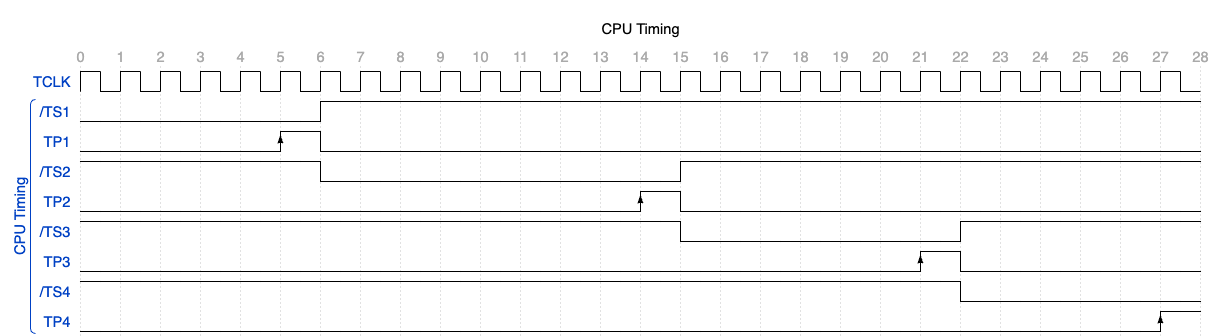
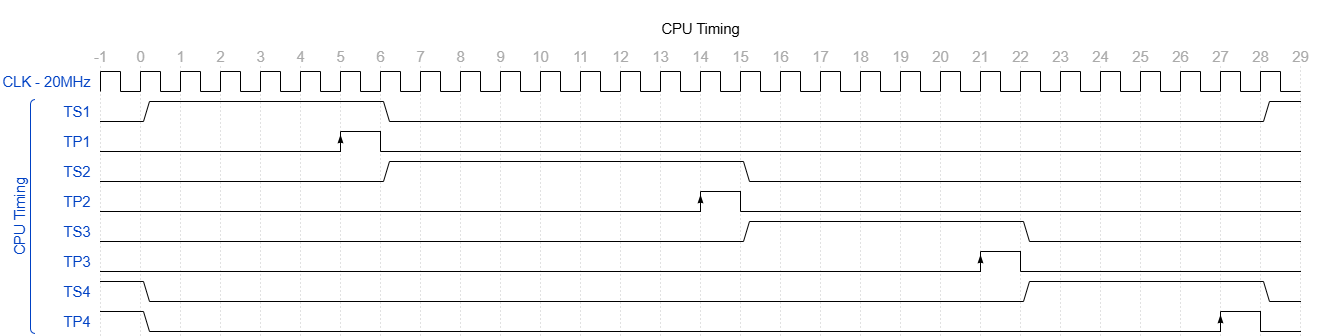
adding memory timing and updating cpu timing diagrams

diff --git a/docs/06-memory/02-memory-interface.md b/docs/06-memory/02-memory-interface.md
@@ -68,6 +68,23 @@ When /WR is asserted as part of a valid write operation, memory uses MEM_ADDR to
 
 /WR does not define the source of write data. It only defines the memory-side write request.
 
+### Memory Transaction Timing
+
+The following diagram shows representative CPU memory-read and memory-write transactions.
+
+![Memory Timing](../../diagrams/memory/memory_timing/export/memory_timing.png)
+
+For both transaction types:
+
+- CPU control supplies `MFB[2:0]` and `AB[11:0]`.
+- `MFB` and `AB` remain stable while `/RD` or `/WR` is asserted and through the associated commit TP.
+- Exactly one of `/RD` or `/WR` is asserted for a valid memory transaction.
+- During a memory read, memory drives `MDB[11:0]`, and the CPU captures the value at the commit TP.
+- During a memory write, the CPU drives `MDB[11:0]`, and memory captures the value at the commit TP.
+- `MDB` remains valid for the required setup and hold interval around the commit TP.
+
+The diagram uses TS2 and TP2 as a representative transaction phase. The active TS and commit TP depend on the specific memory operation. The signal relationships and stability requirements remain unchanged when a memory transaction occurs during another TS and TP.
+
 ## Memory Address Formation
 
 The memory subsystem forms its memory selection value from MFB and AB.
@@ -102,16 +119,6 @@ During a valid write operation:
 - memory stores the 12-bit value present on MDB
 
 Memory is not the MDB driver during a write.
-
-## Idle Behavior
-
-When no valid memory operation is active:
-
-- memory does not modify stored contents
-- memory does not drive MDB
-- memory does not interpret MFB or AB as a completed memory operation
-
-MFB and AB may have values while memory is idle, but those values do not cause memory behavior without an active memory operation.
 
 ## Source Independence
 
